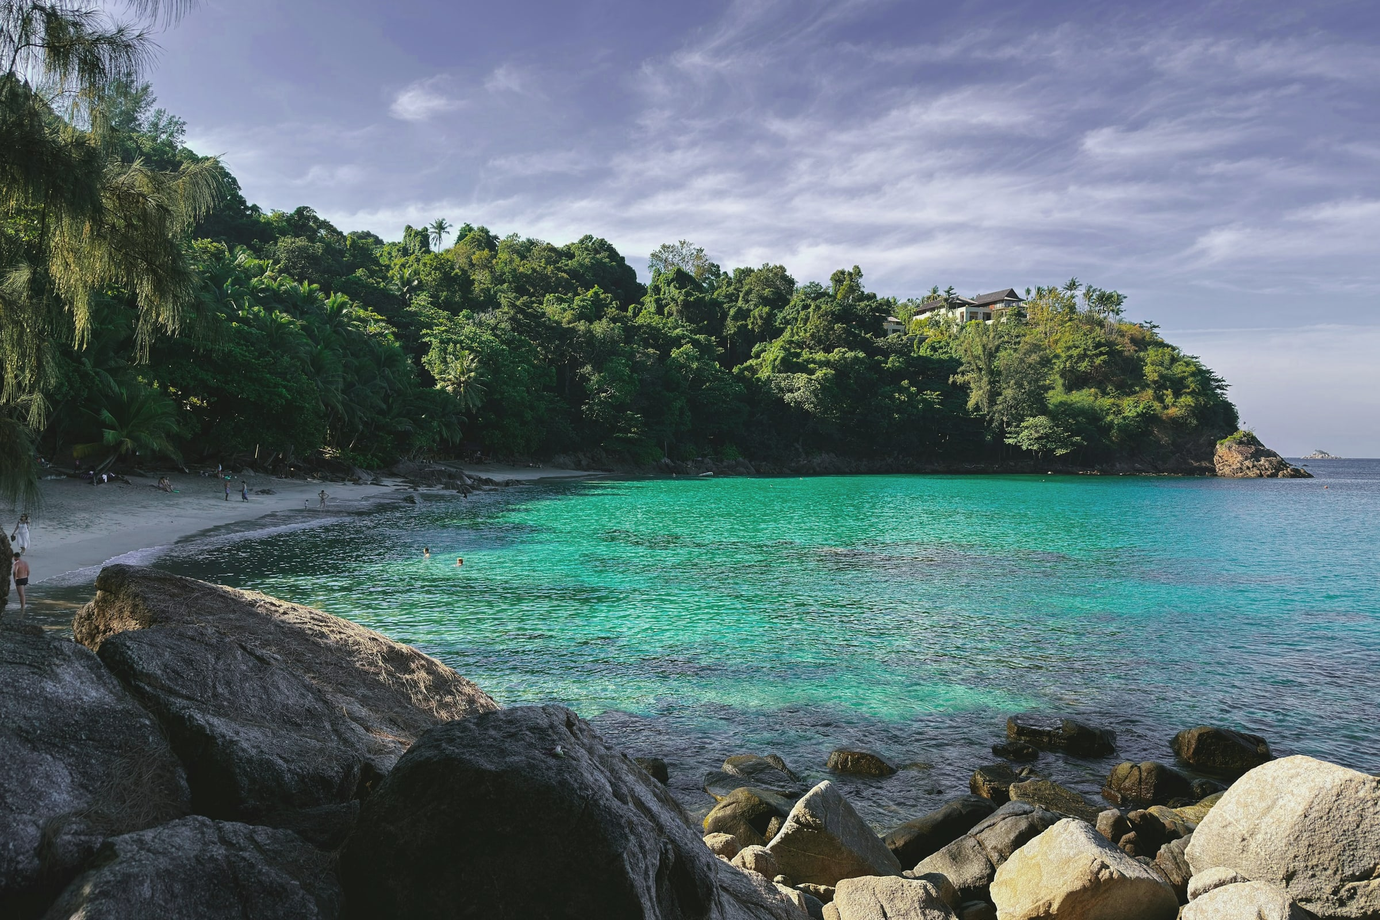
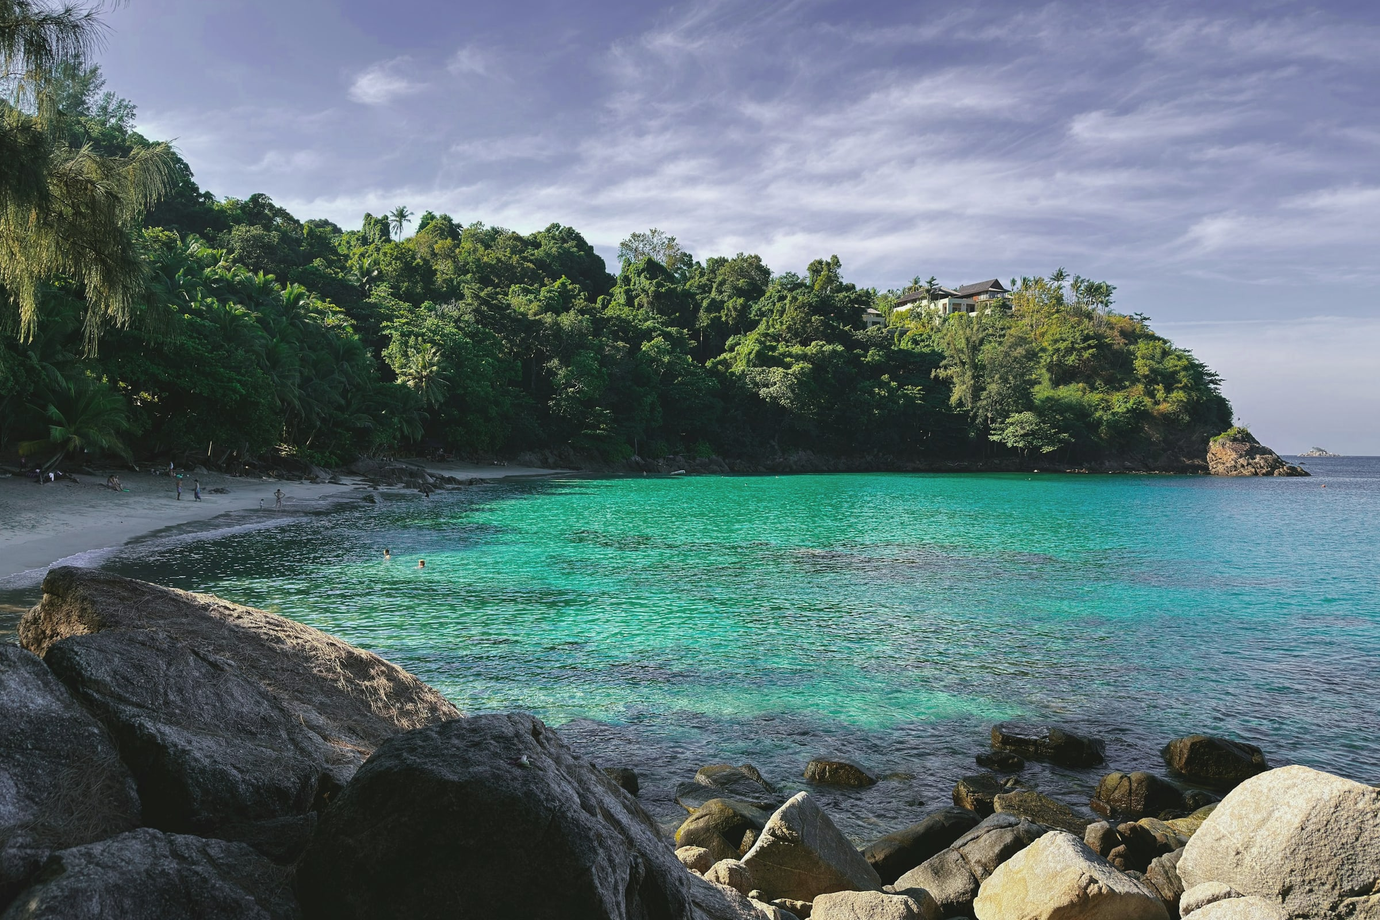
Регионы продаж: у каждого фото природы и объекта, у каждого района своё фото
Главная, «Четыре побережья»: рядом с природой у каждого направления фото
объекта — дом с бассейном (Пхукет), вилла в Убуде (Бали), апартаменты в
Дубай Марине, жилой комплекс в Сиануквиле. Страница Пхукета: у Паттайи
кондоминиумы у моря. Районы Пхукета: у Лаяна пляж Банана к северу, у
Камалы скрытый пляж, у Чалонга Большой Будда на холме Наккерд; сцена
районов берёт подпись района. В «От звонка до ключей» вместо Камалы
кондоминиум, чтобы кадр не повторялся на странице.

Фото Unsplash, место подтверждено полем location или описанием автора;
объекты подписаны «Пример объекта» — это не объекты клиента. Авторы на
/credits и в THIRD-PARTY-NOTICES. CLS 0, W3C без ошибок на главной и
Пхукете.

diff --git a/site/src/lib/photos.ts b/site/src/lib/photos.ts
@@ -40,6 +40,11 @@ export type PhotoKey =
   | 'naiharnRocks'
   | 'condo'
   | 'house'
+  | 'bigBuddha'
+  | 'baliVilla'
+  | 'dubaiHome'
+  | 'pattayaCondo'
+  | 'cambodiaCondo'
 
 export type Ratio = '21x9' | '3x2' | '4x5' | '1x1'
 
@@ -133,6 +138,26 @@ const graded = {
   house: {
     '3x2': { src: '/photos/graded/house-3x2.jpg', width: 2400, height: 1600 },
     '4x5': { src: '/photos/graded/house-4x5.jpg', width: 1484, height: 1855 },
+    '1x1': { src: '/photos/graded/house-1x1.jpg', width: 1855, height: 1855 },
+  },
+  bigBuddha: {
+    '3x2': { src: '/photos/graded/bigBuddha-3x2.jpg', width: 2363, height: 1575 },
+  },
+  baliVilla: {
+    '3x2': { src: '/photos/graded/baliVilla-3x2.jpg', width: 2400, height: 1600 },
+    '1x1': { src: '/photos/graded/baliVilla-1x1.jpg', width: 2400, height: 2400 },
+  },
+  dubaiHome: {
+    '3x2': { src: '/photos/graded/dubaiHome-3x2.jpg', width: 2400, height: 1600 },
+    '1x1': { src: '/photos/graded/dubaiHome-1x1.jpg', width: 1867, height: 1867 },
+  },
+  pattayaCondo: {
+    '3x2': { src: '/photos/graded/pattayaCondo-3x2.jpg', width: 2400, height: 1600 },
+    '4x5': { src: '/photos/graded/pattayaCondo-4x5.jpg', width: 1920, height: 2400 },
+  },
+  cambodiaCondo: {
+    '3x2': { src: '/photos/graded/cambodiaCondo-3x2.jpg', width: 2400, height: 1600 },
+    '1x1': { src: '/photos/graded/cambodiaCondo-1x1.jpg', width: 2400, height: 2400 },
   },
 } as const satisfies Record<PhotoKey, Partial<Record<Ratio, PhotoAsset>>>
 // </generated:photos>
@@ -325,6 +350,51 @@ export const photoMeta = {
     license: UNSPLASH,
     sourceUrl: 'https://unsplash.com/photos/a-modern-house-with-a-pool-in-the-yard-HY2xcxQQ0FU',
   },
+  bigBuddha: {
+    // Location field: Karon (the statue's subdistrict); Nakkerd hill rises between Chalong and Kata.
+    alt: 'Большой Будда на холме Наккерд: белая статуя над лесистыми склонами, внизу побережье и море',
+    caption: 'Большой Будда на холме Наккерд, над Чалонгом и Катой',
+    place: null,
+    credit: 'Aleksandr Galichkin',
+    license: UNSPLASH,
+    sourceUrl: 'https://unsplash.com/photos/large-white-buddha-statue-overlooking-tropical-island-landscape-uMDf0epSpjY',
+  },
+  baliVilla: {
+    // Location: Ubud, Gianyar, Bali. An example of the format, not a client property.
+    alt: 'Вилла в Убуде: стеклянный павильон под скатной крышей, шезлонги и зонты на террасе у бассейна, тропическая зелень',
+    caption: 'Пример объекта: вилла с бассейном, Убуд, Бали',
+    place: null,
+    credit: 'Nerissa J',
+    license: UNSPLASH,
+    sourceUrl: 'https://unsplash.com/photos/a-pool-with-lounge-chairs-and-umbrellas-next-to-it-4jpU5xBQFqA',
+  },
+  dubaiHome: {
+    // Location: The Address Dubai Marina. An example of the format, not a client property.
+    alt: 'Жилые башни Дубай Марины с террасы с бассейном: небоскрёбы над каналом с яхтами',
+    caption: 'Пример объекта: апартаменты в Дубай Марине',
+    place: null,
+    credit: 'Nick Fewings',
+    license: UNSPLASH,
+    sourceUrl: 'https://unsplash.com/photos/city-buildings-near-in-ground-pool-during-daytime-_AXfP_W4fpU',
+  },
+  pattayaCondo: {
+    // Location: Pattaya, Banglamung, Chonburi. An example of the format, not a client property.
+    alt: 'Две высотные башни кондоминиумов у моря в Паттайе, внизу зелёный квартал, на горизонте острова',
+    caption: 'Пример объекта: кондоминиумы у моря, Паттайя',
+    place: null,
+    credit: 'Kseniia Ilinykh',
+    license: UNSPLASH,
+    sourceUrl: 'https://unsplash.com/photos/city-skyline-under-white-sky-during-daytime-dUyZYo9s4sg',
+  },
+  cambodiaCondo: {
+    // The author's description names Sihanoukville. An example of the format, not a client property.
+    alt: 'Высотный жилой комплекс на берегу в Сиануквиле с высоты: башня у пляжа, бирюзовое море, насыпной полуостров',
+    caption: 'Пример объекта: жилой комплекс у моря, Сиануквиль',
+    place: null,
+    credit: 'Sim Kimhort',
+    license: UNSPLASH,
+    sourceUrl: 'https://unsplash.com/photos/an-aerial-view-of-a-high-rise-building-next-to-the-ocean-wyeJRRBGq2s',
+  },
 } as const satisfies Record<PhotoKey, PhotoMeta>
 
 export type Credit = {
@@ -365,6 +435,11 @@ const ORDER: PhotoKey[] = [
   'villa',
   'condo',
   'house',
+  'bigBuddha',
+  'baliVilla',
+  'dubaiHome',
+  'pattayaCondo',
+  'cambodiaCondo',
 ]
 
 /** Rows for the /credits page, in site order. */

diff --git a/site/src/components/sections/home/coasts.tsx b/site/src/components/sections/home/coasts.tsx
@@ -24,9 +24,18 @@ const media: Record<DestinationId, ReactNode> = {
   cambodia: <Figure photo="cambodia" ratio="4x5" mobileRatio="3x2" sizes="(min-width: 64rem) 25vw, 100vw" />,
 }
 
+/** A property next to the landscape in every row: what is bought there, not only where. */
+const property: Record<DestinationId, ReactNode> = {
+  phuket: <Figure photo="house" ratio="1x1" sizes="(min-width: 64rem) 16vw, 50vw" caption="Пример объекта: дом с бассейном" />,
+  bali: <Figure photo="baliVilla" ratio="1x1" sizes="(min-width: 64rem) 16vw, 50vw" />,
+  dubai: <Figure photo="dubaiHome" ratio="1x1" sizes="(min-width: 64rem) 16vw, 50vw" />,
+  cambodia: <Figure photo="cambodiaCondo" ratio="1x1" sizes="(min-width: 64rem) 16vw, 50vw" />,
+}
+
 /**
  * «Четыре побережья» (art-direction §6 «Главная» 3): one row per destination — name D2 (1–5),
- * the coastline 120 px (6–7), local time and verdict (8–9), photo (10–12). The whole row is the
+ * the coastline 120 px (6–7), local time, verdict and a property photo 1:1 (8–9), landscape
+ * photo (10–12). The whole row is the
  * link (stretched link from the h3, so the accessible name stays short); hover lays sand under it.
  * Planned destinations lead to the quiz with the country chosen (copy-global §2).
  */
@@ -74,6 +83,7 @@ export function HomeCoasts() {
                   <LocalTime timeZone={d.timeZone} /> {d.timeLabel}
                 </p>
                 <p className="type-body mt-3 max-w-[40ch]">{row.verdict}</p>
+                <div className="mt-8 w-1/2 md:w-2/3 lg:w-full">{property[row.id]}</div>
               </div>
 
               <div data-reveal="clip" className="col-span-full mt-8 md:col-span-5 lg:col-span-3 lg:col-start-10 lg:mt-0">

diff --git a/site/src/components/sections/phuket/districts.ts b/site/src/components/sections/phuket/districts.ts
@@ -199,6 +199,7 @@ export const districts: readonly District[] = [
     id: 'layan',
     slug: 'layan',
     name: 'Лаян',
+    photo: { key: 'banana', caption: 'Пляж Банана, к северу от Лаяна' },
     verdict: 'Тихий пляж на северном краю бухты Банг Тао, рядом с национальным парком Сиринат',
     facts: [
       'Подходит тем, кто ищет тишину и природу рядом с домом',
@@ -221,6 +222,7 @@ export const districts: readonly District[] = [
     id: 'kamala',
     slug: 'kamala',
     name: 'Камала',
+    photo: { key: 'kamala', caption: 'Камала, западное побережье Пхукета' },
     verdict: 'Залив с пляжем около 3 км между Суриным и Патонгом, вокруг него посёлок',
     facts: [
       'Подходит тем, кому нужен спокойный пляж недалеко от Патонга',
@@ -247,6 +249,7 @@ export const districts: readonly District[] = [
     id: 'chalong',
     slug: 'chalong',
     name: 'Чалонг',
+    photo: { key: 'bigBuddha', caption: 'Большой Будда на холме Наккерд, над Чалонгом и Катой' },
     verdict: 'Залив на юго-востоке с якорной стоянкой для яхт и пирсом для лодок на острова',
     facts: ['Подходит тем, кто ходит на яхте или часто ездит на острова', 'Покупают дома и виллы в жилых посёлках'],
   },

diff --git a/site/src/components/sections/home/process.tsx b/site/src/components/sections/home/process.tsx
@@ -11,8 +11,9 @@ import { processSection } from './content'
  * the diagonal leaves: heading and Lead top right (9–12, level with the first photo), the five
  * stages bottom left (1–6, under the first photo). One `<ol>`, no visible numbers: the order is
  * carried by the first words, set UI 500.
- * The third photo is the hidden cove of Камала (`kamala`): a west-coast district the scene two
- * screens up shows only as an outline (copy-home §6, designer note).
+ * The third photo is a condominium with a shared pool (`condo`, «Пример формата»): the deal ends
+ * with keys to a property, and the district scene two screens up already shows every district's
+ * coast (copy-home §6, designer note).
  *
  * Mobile: heading, Ката full width, Най Харн 62 % flush right, the stages, Камала 78 % flush left.
  */
@@ -76,11 +77,10 @@ export function HomeProcess() {
           className="order-4 col-span-full mt-16 w-[78%] md:w-2/3 lg:order-none lg:col-span-5 lg:col-start-3 lg:mt-[180px] lg:w-auto"
         >
           <Figure
-            photo="kamala"
+            photo="condo"
             ratio="3x2"
             sizes="(min-width: 64rem) 42vw, 78vw"
-            caption={captions.kamala}
-            locator={<Locator place="kamala" />}
+            caption={captions.condo}
           />
         </div>
       </div>

diff --git a/site/src/components/sections/phuket/pattaya-teaser.tsx b/site/src/components/sections/phuket/pattaya-teaser.tsx
@@ -7,7 +7,8 @@ const { pattaya } = phuketPage
 
 /**
  * Pattaya (art-direction §6 block 6): pattaya.jpg 3:2 in columns 1–7, the D3 line (an h2 by
- * markup), a sentence and the link in 9–12, standing on the photo's bottom edge.
+ * markup), a sentence and the link in 9–12, standing on the photo's bottom edge. A property photo
+ * 4:5 opens the right column: the city and what is bought in it.
  * Pattaya is not on Phuket, so its caption has no locator.
  */
 export function PattayaTeaser() {
@@ -22,6 +23,9 @@ export function PattayaTeaser() {
         />
       </div>
       <div data-reveal="fade" className="col-span-full md:col-span-6 lg:col-span-4 lg:col-start-9 lg:pb-10">
+        <div className="mb-10 w-2/3 lg:w-3/4">
+          <Figure photo="pattayaCondo" ratio="4x5" sizes="(min-width: 64rem) 20vw, 66vw" />
+        </div>
         <h2 id="pattaya-title" className="type-d3 max-w-[18ch]">
           {typo(pattaya.title)}
         </h2>

diff --git a/site/src/components/motion/district-scene.tsx b/site/src/components/motion/district-scene.tsx
@@ -33,6 +33,8 @@ export type DistrictSceneItem = {
   facts: { term: string; value: string }[]
   /** 3:2 photo; without it the block shows a 160 px locator (art-direction §4, §7). */
   photo?: PhotoKey
+  /** Caption for the photo in this district's words (a neighbouring beach says whose neighbour it is). */
+  photoCaption?: string
   /** District page, e.g. `/thailand/phuket/bang-tao`. */
   href?: string
   /** Link text for `href`. Default «{name} подробно» (copy-home §4: «Банг Тао подробно»). */
@@ -190,6 +192,7 @@ function DistrictPanel({ district: d }: { district: DistrictSceneItem }) {
                 photo={d.photo}
                 ratio="3x2"
                 sizes="(min-width: 64rem) 25vw, (min-width: 48rem) 50vw, 100vw"
+                caption={d.photoCaption}
                 locator={place ? <Locator place={place} /> : undefined}
               />
             ) : (

diff --git a/site/src/components/sections/home/districts.tsx b/site/src/components/sections/home/districts.tsx
@@ -36,6 +36,7 @@ const districts: DistrictSceneItem[] = hubDistricts.map((d) => ({
     { term: buy, value: afterLabel(d.facts[1], 'Покупают') },
   ],
   photo: d.photo?.key,
+  photoCaption: d.photo?.caption,
   // Only a district with its own page links out; the scene labels it «{name} подробно»
   // («Банг Тао подробно», copy-home §4).
   href: d.page ? districtHref(d) : undefined,

diff --git a/site/src/components/sections/home/content.ts b/site/src/components/sections/home/content.ts
@@ -124,7 +124,7 @@ export const processSection = {
   captions: {
     kata: 'Ката, западное побережье Пхукета',
     naiharn: 'Най Харн, юг Пхукета',
-    kamala: 'Камала, западное побережье Пхукета',
+    condo: 'Пример формата: кондоминиум с общим бассейном',
   },
 } as const
 

diff --git a/docs/DEMO_DECISIONS.md b/docs/DEMO_DECISIONS.md
@@ -36,7 +36,7 @@
 ## Фото
 Разрешено брать самые качественные фото для промо: профессиональные снимки Unsplash (лицензия Unsplash: бесплатное коммерческое использование, без обязательной атрибуции; авторов всё равно указываем на `/credits`). Подписи к фото — только если место подтверждено метаданными; иначе нейтральная подпись («Пример формата: …»). Перед запуском — собственная съёмка по шот-листу.
 
-Исключение — два кадра Банг Тао (пляж в списке районов и закат в подвале и на странице района): на Unsplash нет ни одного снимка с подтверждённым местом Банг Тао, поэтому они остались с Wikimedia Commons (CC BY 2.0 и CC BY-SA 4.0). Панорама на странице района — пляж Банана в 3 км к северу, подпись это говорит прямо. Второй раунд отбора (03.11, по просьбе руководителя «максимально красивые фото»): главная, Банана, Камала, вилла, дом и Камбоджа заменены на более сильные снимки Unsplash; подписи называют место только там, где оно подтверждено. Авторы, лицензии и ссылки — на `/credits` и в `site/THIRD-PARTY-NOTICES.md`; автор заката просит подпись «Фото: Anton Zelenov» рядом со снимком, она стоит в подписи. Исходники фото лежат в `site/photos-src/` и на сайт не выкладываются.
+Исключение — два кадра Банг Тао (пляж в списке районов и закат в подвале и на странице района): на Unsplash нет ни одного снимка с подтверждённым местом Банг Тао, поэтому они остались с Wikimedia Commons (CC BY 2.0 и CC BY-SA 4.0). Панорама на странице района — пляж Банана в 3 км к северу, подпись это говорит прямо. Второй раунд отбора (03.11, по просьбе руководителя «максимально красивые фото»): главная, Банана, Камала, вилла, дом и Камбоджа заменены на более сильные снимки Unsplash; подписи называют место только там, где оно подтверждено. Третий раунд (05.11, «все регионы продаж — фото объектов и природы»): у каждого направления на главной рядом с природой фото объекта (Пхукет — дом с бассейном, Бали — вилла в Убуде, Дубай — апартаменты в Дубай Марине, Камбоджа — жилой комплекс в Сиануквиле), у Паттайи — кондоминиумы у моря; у каждого района Пхукета своё фото (Лаян — пляж Банана к северу, Камала, Чалонг — Большой Будда на холме Наккерд). Фото объектов подписаны «Пример объекта»: это не объекты клиента; перед запуском заменить реальными проектами из подборки. Авторы, лицензии и ссылки — на `/credits` и в `site/THIRD-PARTY-NOTICES.md`; автор заката просит подпись «Фото: Anton Zelenov» рядом со снимком, она стоит в подписи. Исходники фото лежат в `site/photos-src/` и на сайт не выкладываются.
 
 ## SEO перед запуском (технические флаги)
 - Банг Тао: `ready: true` в `districts.ts` после проверки брокером — страница уйдёт в индекс и sitemap.

diff --git a/site/THIRD-PARTY-NOTICES.md b/site/THIRD-PARTY-NOTICES.md
@@ -121,3 +121,8 @@ Graded crops in `public/photos/graded/{key}-{ratio}.jpg`, made by `scripts/photo
 | naiharnRocks | Най Харн, юго-западное побережье Пхукета | Aleksandr Galichkin | Unsplash License | https://unsplash.com/photos/aerial-view-of-a-tropical-beach-with-palm-trees-and-ocean-LRHbBae_6k0 |
 | condo | Пример формата: кондоминиум с общим бассейном | allPhoto Bangkok | Unsplash License | https://unsplash.com/photos/green-trees-near-swimming-pool-during-daytime-nI4aC1kaTRc |
 | house | Пример формата: дом для жизни | Ronaldo Rizzutti | Unsplash License | https://unsplash.com/photos/a-modern-house-with-a-pool-in-the-yard-HY2xcxQQ0FU |
+| bigBuddha | Большой Будда на холме Наккерд, над Чалонгом и Катой | Aleksandr Galichkin | Unsplash License | https://unsplash.com/photos/large-white-buddha-statue-overlooking-tropical-island-landscape-uMDf0epSpjY |
+| baliVilla | Пример объекта: вилла с бассейном, Убуд, Бали | Nerissa J | Unsplash License | https://unsplash.com/photos/a-pool-with-lounge-chairs-and-umbrellas-next-to-it-4jpU5xBQFqA |
+| dubaiHome | Пример объекта: апартаменты в Дубай Марине | Nick Fewings | Unsplash License | https://unsplash.com/photos/city-buildings-near-in-ground-pool-during-daytime-_AXfP_W4fpU |
+| pattayaCondo | Пример объекта: кондоминиумы у моря, Паттайя | Kseniia Ilinykh | Unsplash License | https://unsplash.com/photos/city-skyline-under-white-sky-during-daytime-dUyZYo9s4sg |
+| cambodiaCondo | Пример объекта: жилой комплекс у моря, Сиануквиль | Sim Kimhort | Unsplash License | https://unsplash.com/photos/an-aerial-view-of-a-high-rise-building-next-to-the-ocean-wyeJRRBGq2s |
